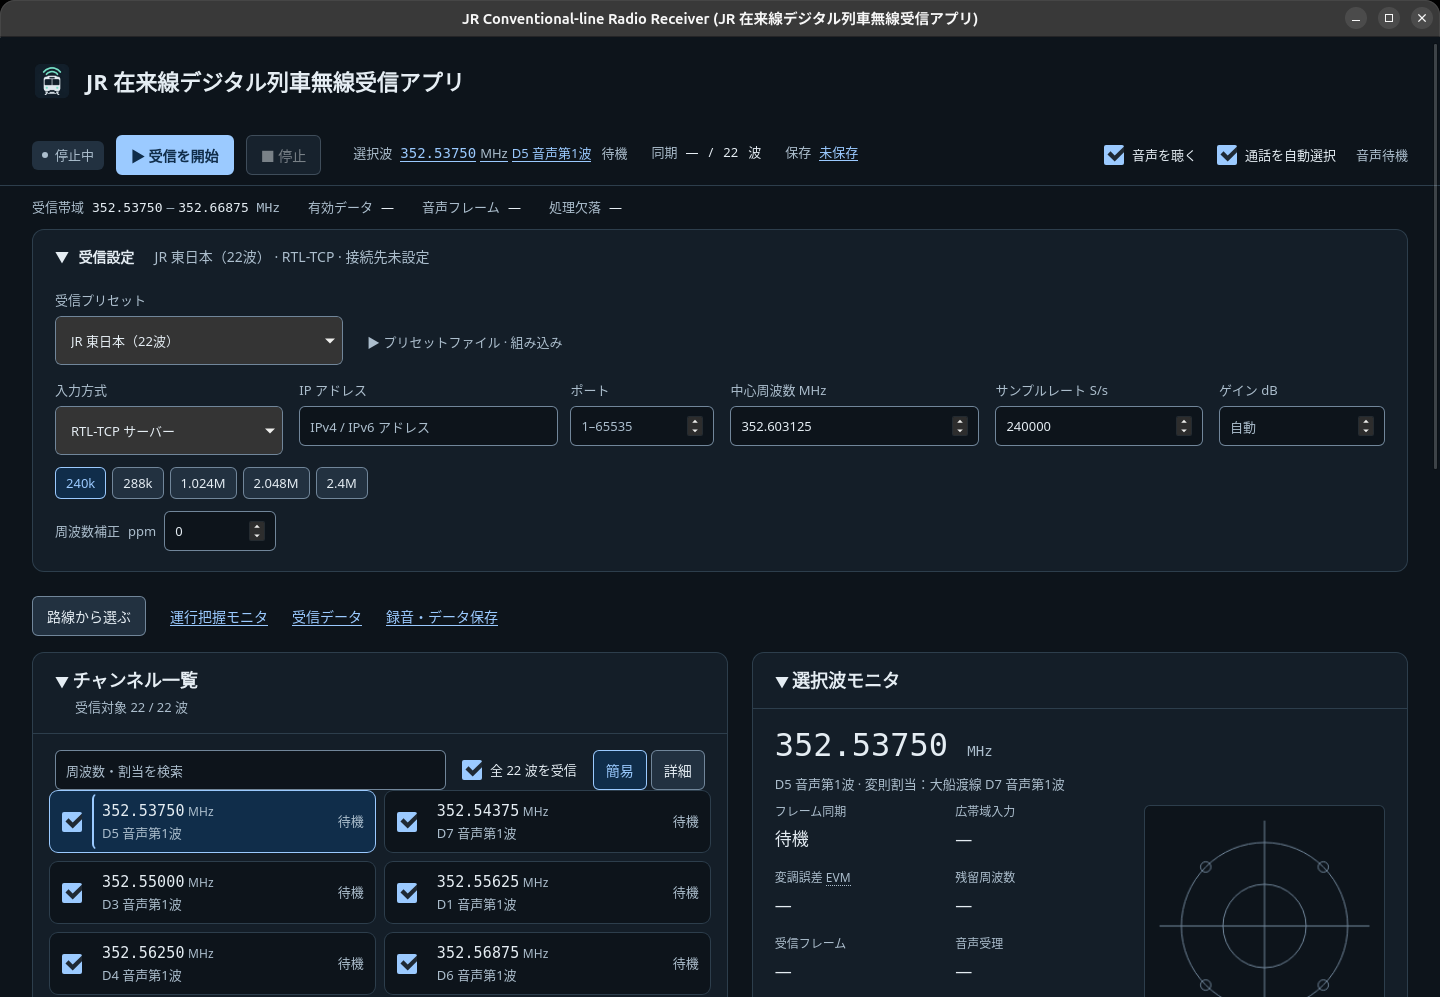
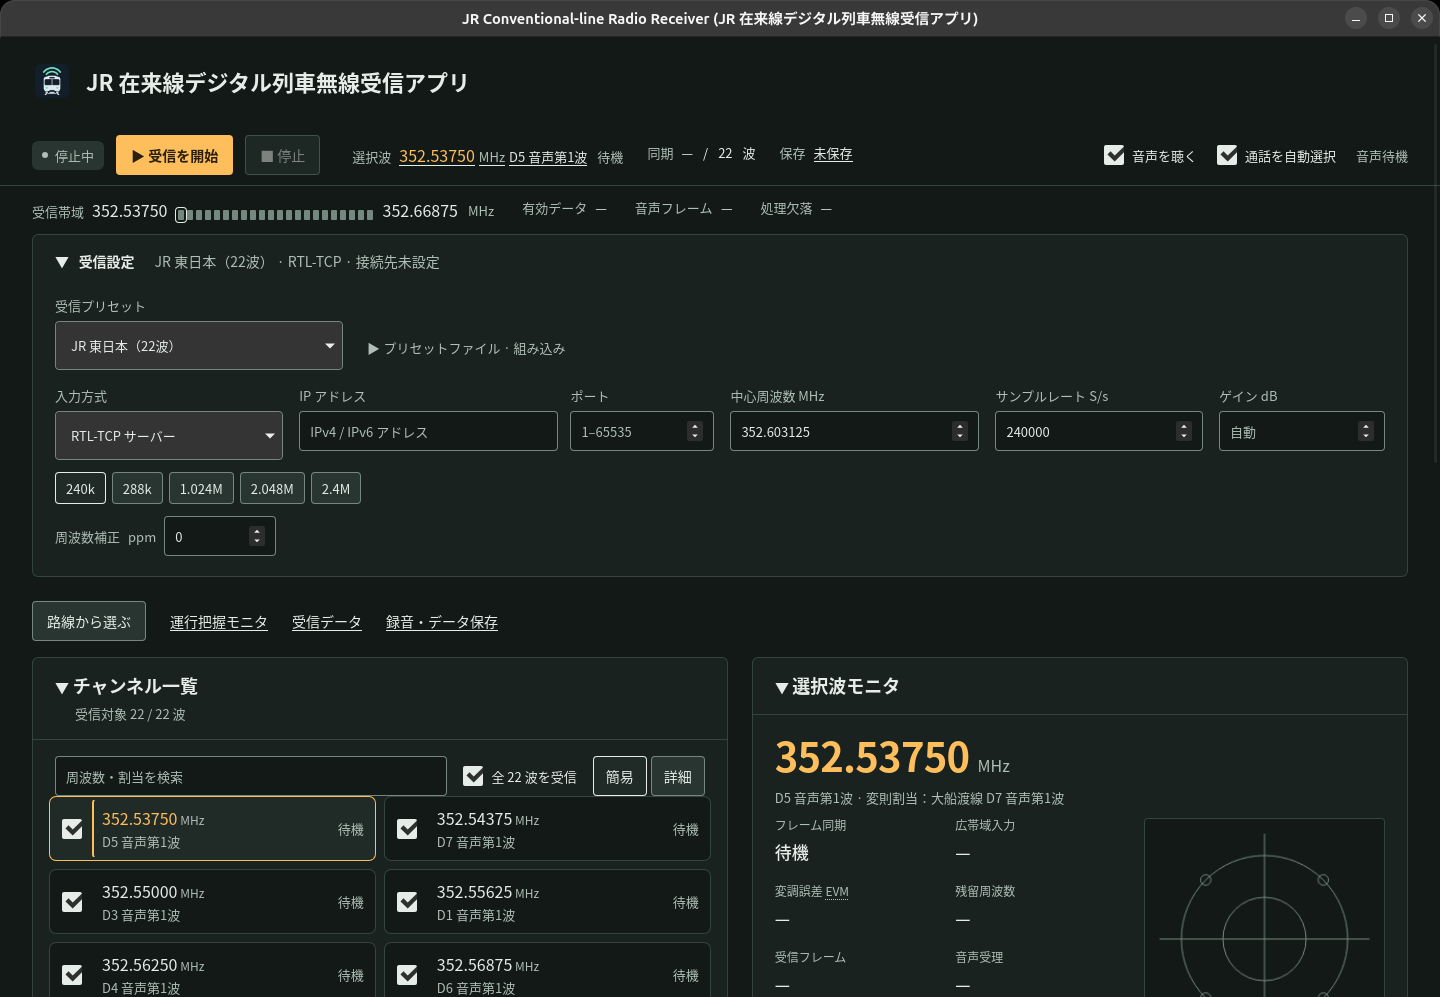
improve interface

diff --git a/ui/style.css b/ui/style.css
@@ -1,45 +1,50 @@
 :root {
   color-scheme: dark;
-  --slate-950: #0d141b;
-  --slate-900: #141e28;
-  --slate-850: #1a2734;
-  --slate-800: #223140;
-  --slate-700: #2d3e4c;
-  --slate-500: #71869a;
-  --slate-300: #acbecd;
-  --slate-100: #e5edf3;
-  --blue-300: #9bcaff;
-  --blue-950: #102d4a;
-  --mint-300: #72dfc1;
-  --mint-950: #17392f;
+  /* Green-tinted graphite neutrals. */
+  --panel-950: #121916;
+  --panel-900: #19221f;
+  --panel-850: #202b27;
+  --panel-800: #283530;
+  --panel-700: #34443e;
+  --panel-500: #74887f;
+  --panel-300: #afbeb6;
+  --panel-100: #e6ede8;
+  /* Amber marks frequency readouts and the one primary action. */
+  --amber-300: #ffbe5c;
+  --amber-950: #2a1f0e;
+  /* Green is synchronized, red is an error. */
+  --signal-green-300: #72d998;
+  --signal-green-950: #173224;
   --red-200: #ffb7ab;
   --red-950: #472b2b;
-  --bg: var(--slate-950);
-  --surface: var(--slate-900);
-  --inset: var(--slate-950);
-  --surface-raised: var(--slate-850);
-  --control: var(--slate-800);
-  --line: var(--slate-700);
-  --control-border: var(--slate-500);
-  --text: var(--slate-100);
-  --muted: var(--slate-300);
-  --accent: var(--blue-300);
-  --on-accent: var(--blue-950);
-  --selected: var(--blue-950);
-  --success: var(--mint-300);
-  --success-bg: var(--mint-950);
+  --bg: var(--panel-950);
+  --surface: var(--panel-900);
+  --inset: var(--panel-950);
+  --surface-raised: var(--panel-850);
+  --control: var(--panel-800);
+  --line: var(--panel-700);
+  --control-border: var(--panel-500);
+  --text: var(--panel-100);
+  --muted: var(--panel-300);
+  --accent: var(--amber-300);
+  --on-accent: var(--amber-950);
+  --selected: var(--panel-850);
+  --readout: var(--amber-300);
+  --success: var(--signal-green-300);
+  --success-bg: var(--signal-green-950);
   --danger: var(--red-200);
   --danger-bg: var(--red-950);
-  --focus: var(--blue-300);
-  --plot-grid: var(--slate-500);
-  --plot-signal: var(--mint-300);
-  --radius: 12px;
-  --radius-control: 6px;
+  --focus: var(--amber-300);
+  --plot-grid: var(--panel-500);
+  --plot-signal: var(--signal-green-300);
+  --radius: 6px;
+  --radius-control: 4px;
   --text-caption: 0.8125rem;
   --text-body: 0.875rem;
   --text-heading: 1.125rem;
   --text-title: 1.375rem;
-  font-family: "Noto Sans JP", "Yu Gothic UI", system-ui, sans-serif;
+  --font-ui: "BIZ UDPGothic", "Hiragino Sans", "Noto Sans CJK JP", "Noto Sans JP", "Yu Gothic UI", system-ui, sans-serif;
+  font-family: var(--font-ui);
   font-size: 16px;
   line-height: 1.5;
   -webkit-font-smoothing: antialiased;
@@ -102,7 +107,7 @@ input::placeholder {
   opacity: 1;
 }
 input[type="checkbox"] {
-  accent-color: var(--accent);
+  accent-color: var(--text);
   width: 20px;
   min-height: 20px;
   height: 20px;
@@ -110,7 +115,7 @@ input[type="checkbox"] {
   flex-shrink: 0;
 }
 input[type="range"] {
-  accent-color: var(--accent);
+  accent-color: var(--text);
   padding: 0;
   border: 0;
   min-height: 40px;
@@ -128,7 +133,7 @@ label > :is(input, select),
   margin-block-start: 6px;
 }
 a {
-  color: var(--accent);
+  color: var(--text);
   text-underline-offset: 0.2em;
   text-decoration-thickness: from-font;
 }
@@ -245,8 +250,9 @@ small,
   min-width: 0;
 }
 #bar-frequency {
-  font-family: ui-monospace, monospace;
-  font-size: var(--text-body);
+  font-variant-numeric: tabular-nums;
+  font-size: 1rem;
+  color: var(--readout);
 }
 .session-channel-label {
   overflow-wrap: anywhere;
@@ -316,11 +322,50 @@ main {
   overflow-wrap: anywhere;
 }
 .band-range {
-  font-family: ui-monospace, monospace;
+  display: inline-flex;
+  flex-wrap: wrap;
+  align-items: center;
+  gap: 4px 10px;
 }
-.band-range span {
-  color: var(--muted);
-  margin-inline: 4px;
+.band-range bdi {
+  font-variant-numeric: tabular-nums;
+  font-size: 1rem;
+}
+/* One bar per channel at its frequency: lit bars are synchronized, tall amber bars carry a call. */
+.band-map {
+  --slots: 22;
+  display: grid;
+  grid-template-columns: repeat(var(--slots), 6px);
+  column-gap: 3px;
+  align-items: end;
+  height: 20px;
+  margin: 0;
+  padding: 0;
+  list-style: none;
+}
+.band-map li {
+  grid-row: 1;
+  height: 10px;
+  border-radius: 1px;
+  background: var(--panel-500);
+}
+.band-map li[data-state="excluded"] {
+  background: transparent;
+  box-shadow: inset 0 0 0 1px var(--line);
+}
+.band-map li[data-state="locked"] {
+  background: var(--success);
+}
+.band-map li[data-state="call"] {
+  height: 20px;
+  background: var(--readout);
+}
+.band-map li[data-state="error"] {
+  background: var(--danger);
+}
+.band-map li.selected {
+  outline: 1px solid var(--text);
+  outline-offset: 2px;
 }
 .card {
   background: var(--surface);
@@ -379,9 +424,9 @@ fieldset {
   font-variant-numeric: tabular-nums;
 }
 .rate-presets button[aria-pressed="true"] {
-  border-color: var(--accent);
+  border-color: var(--text);
   background: var(--selected);
-  color: var(--accent);
+  color: var(--text);
 }
 #device-group,
 .file-row {
@@ -580,9 +625,9 @@ fieldset {
   padding-inline: 12px;
 }
 .view-switch button[aria-pressed="true"] {
-  border-color: var(--accent);
+  border-color: var(--text);
   background: var(--selected);
-  color: var(--accent);
+  color: var(--text);
 }
 .channel-grid {
   display: grid;
@@ -598,13 +643,13 @@ fieldset {
   min-width: 0;
   padding: 2px;
   border: 1px solid var(--line);
-  /* Concentric with the 6px button: 2px padding + 1px border. */
-  border-radius: 9px;
+  /* Concentric with the 4px button: 2px padding + 1px border. */
+  border-radius: 7px;
   background: var(--inset);
 }
 .channel-tile.selected {
   background: var(--selected);
-  border-color: var(--accent);
+  border-color: var(--readout);
 }
 .channel-tile .row-check {
   min-width: 40px;
@@ -632,7 +677,6 @@ fieldset {
 }
 .frequency-unit {
   color: var(--muted);
-  font-family: "Noto Sans JP", "Yu Gothic UI", system-ui, sans-serif;
   font-size: 0.75rem;
 }
 .compact-state {
@@ -690,14 +734,17 @@ tr.selected {
   display: block;
 }
 .channel-select[aria-pressed="true"] {
-  border-inline-start: 2px solid var(--accent);
+  border-inline-start: 2px solid var(--readout);
 }
 .frequency {
   display: block;
-  font-family: ui-monospace, monospace;
-  font-size: 0.9375rem;
-  letter-spacing: 0.01em;
+  font-variant-numeric: tabular-nums;
+  font-size: 1rem;
   white-space: nowrap;
+}
+.channel-tile.selected .frequency,
+tr.selected .frequency {
+  color: var(--readout);
 }
 .channel-label {
   display: block;
@@ -727,13 +774,17 @@ tr.selected {
   padding: 16px 22px 8px;
 }
 .frequency-heading > p:first-child {
-  font-family: ui-monospace, monospace;
-  font-size: 2rem;
+  font-size: 2.5rem;
+  font-weight: 600;
   font-variant-numeric: tabular-nums;
-  line-height: 1.3;
+  letter-spacing: -0.02em;
+  line-height: 1.2;
+  color: var(--readout);
 }
 .frequency-heading .unit {
-  font-size: 0.875rem;
+  font-size: 1rem;
+  font-weight: 400;
+  letter-spacing: 0;
 }
 #selected-label {
   color: var(--muted);
@@ -1284,7 +1335,7 @@ body:has(#about-dialog[open]) {
     padding: 16px 16px 8px;
   }
   .frequency-heading > p:first-child {
-    font-size: 1.625rem;
+    font-size: 2rem;
   }
   .monitor-grid {
     padding-inline: 16px;

diff --git a/ui/app.js b/ui/app.js
@@ -568,6 +568,13 @@ function buildRows() {
   rows.clear();
   $("channels").replaceChildren();
   $("channels-simple").replaceChildren();
+  $("band-map").replaceChildren();
+  // The band map places each channel at its frequency so gaps in a plan show.
+  const low = Math.min(...channels.map((c) => c.frequency_hz));
+  const slots = channels.length
+    ? Math.round((Math.max(...channels.map((c) => c.frequency_hz)) - low) / 6250) + 1
+    : 1;
+  $("band-map").style.setProperty("--slots", slots);
   for (const c of channels) {
     const tr = el("tr");
     const box = el("td");
@@ -599,7 +606,11 @@ function buildRows() {
     simpleButton.append(simpleSync);
     item.append(simpleCheck.label, simpleButton);
     $("channels-simple").append(item);
+    const band = el("li");
+    band.style.gridColumn = String(Math.round((c.frequency_hz - low) / 6250) + 1);
+    $("band-map").append(band);
     rows.set(c.id, {
+      band,
       tr,
       check,
       format,
@@ -648,6 +659,15 @@ function renderChannelStates() {
     r.sync.className = tone;
     r.simple.sync.className = `compact-state ${tone}`;
     r.simple.item.classList.toggle("excluded", !included);
+    r.band.dataset.state = !included
+      ? "excluded"
+      : c?.error
+        ? "error"
+        : running && lastSnapshot?.active_calls?.includes(id)
+          ? "call"
+          : locked
+            ? "locked"
+            : "idle";
     r.voice.textContent = c ? c.status.voice_frames.toLocaleString() : "—";
     r.data.textContent = c ? c.status.data.valid_frames.toLocaleString() : "—";
   }
@@ -673,6 +693,7 @@ function select(id, manual = false) {
   for (const [key, r] of rows) {
     r.tr.classList.toggle("selected", key === id);
     r.simple.item.classList.toggle("selected", key === id);
+    r.band.classList.toggle("selected", key === id);
     for (const button of [r.button, r.simple.button])
       button.setAttribute("aria-pressed", String(key === id));
   }

diff --git a/ui/index.html b/ui/index.html
@@ -85,7 +85,8 @@
             <dt>受信帯域</dt>
             <dd>
               <span class="band-range"
-                ><bdi id="band-low">352.53750</bdi><span>–</span
+                ><bdi id="band-low">352.53750</bdi><span class="sr-only">–</span
+                ><ol id="band-map" class="band-map" aria-hidden="true"></ol
                 ><bdi id="band-high">352.66875</bdi> <small>MHz</small></span
               >
             </dd>
